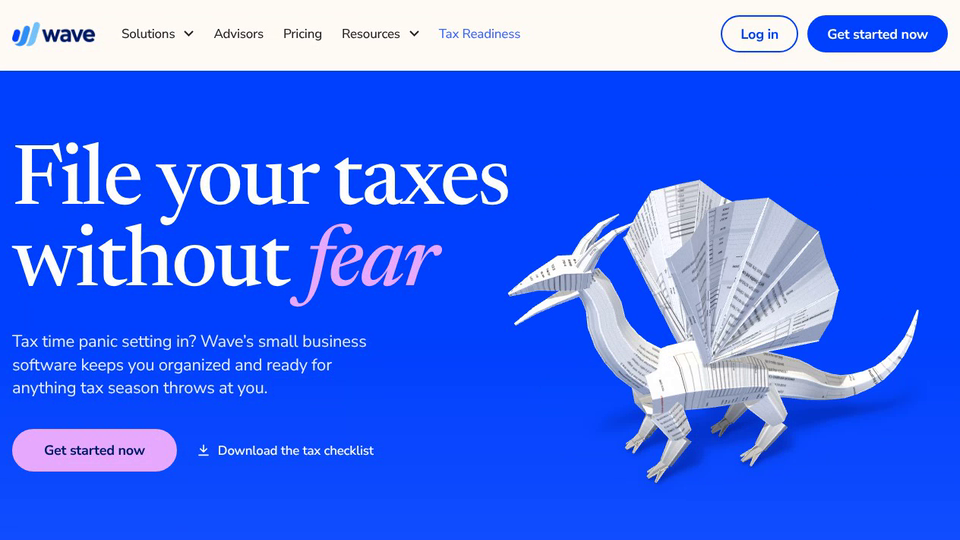
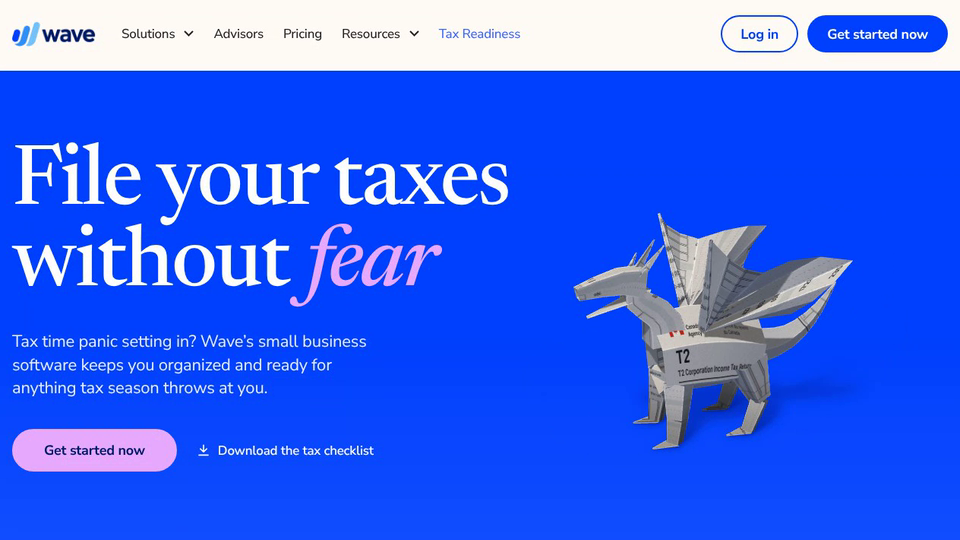
Wave Tax Landing Origami: creatures rebuilt after the Figma origami references (#930)
* Wave Tax Landing Origami: dark pink advisor image overlay

Claude-Session: https://claude.ai/code/session_016rpguaGnGwA1zdzYfzRZj8

* Wave Tax Landing Origami: clean up advisor image overlay mask

Rebuilt the pink overlay mask: smooth cutout edges, no glow rim, crisp
white ADVISORS outlines, untinted desk legs, even background tone.

Claude-Session: https://claude.ai/code/session_016rpguaGnGwA1zdzYfzRZj8

* Wave Tax Landing Origami: lighter pink advisor image overlay

Claude-Session: https://claude.ai/code/session_016rpguaGnGwA1zdzYfzRZj8

* Wave Tax Landing Origami: advisor overlay matches the card pink

Claude-Session: https://claude.ai/code/session_016rpguaGnGwA1zdzYfzRZj8

* Wave Tax Landing Origami: fix untinted halo around consultant's hair and ear

Claude-Session: https://claude.ai/code/session_016rpguaGnGwA1zdzYfzRZj8

* Wave Tax Landing Origami: origami fold, spider title toward camera, portrait moving CTA forms

- Creatures now fold like origami: limbs draw in, the body presses flat
  into a folded packet, and the sheet opens along straight creases
  (book/cupboard folds) instead of breaking into flying pieces.
- Spider: the T5018 title sits on the camera-facing side of the
  abdomen, and the spider is turned so its face angles toward the camera.
- Closing CTA forms use a portrait layout and slowly lift and settle.
- Re-recorded the home page clip at the new timings.

Claude-Session: https://claude.ai/code/session_016rpguaGnGwA1zdzYfzRZj8
[…]

Changed region(s): [[0.5312, 0.3259, 0.9375, 0.8889], [0.9375, 0.563, 0.9688, 0.6519]]

diff --git a/wave-tax-landing-origami/index.html b/wave-tax-landing-origami/index.html
@@ -516,7 +516,7 @@ html body nav.back:not(.sb-panel):not(:has(>div))>a,html body nav.back:not(.sb-p
     <p class="sub">Stop the tax time terror before it starts. Check out our guides to get prepared.</p>
     <div class="arts" id="arts">
       <a class="art" href="#" data-c="spider" data-f="T4A" data-cam="0.5,0.5,1.3" data-bg="#f2a8ff" data-sh="" data-name="T4A spider"><div class="ill"><canvas></canvas></div><div class="tx"><h3>2026 tax checklist: Get ready for tax season</h3><p>As we kick off the new year, it’s time to get your business ready for tax filing season. Follow these steps to get your books in shape.</p><span class="more2">Read more<svg viewBox="0 0 17 12" aria-hidden="true"><path d="M3 6h12M10 1l5 5-5 5" fill="none" stroke="currentColor" stroke-width="2" stroke-linecap="round" stroke-linejoin="round"/></svg></span></div></a>
-      <a class="art" href="#" data-c="hydra" data-f="T2125" data-cam="0.5,0.74,1.55" data-bleed="1" data-bg="#001b65" data-sh="" data-name="Deductions hydra"><div class="ill"><canvas></canvas></div><div class="tx"><h3>The ultimate guide to self-employed tax deductions</h3><p>Everything you need to know about tax deductions for the self-employed, common examples of what you can deduct, and how to maximize those deductions.</p><span class="more2">Read more<svg viewBox="0 0 17 12" aria-hidden="true"><path d="M3 6h12M10 1l5 5-5 5" fill="none" stroke="currentColor" stroke-width="2" stroke-linecap="round" stroke-linejoin="round"/></svg></span></div></a>
+      <a class="art" href="#" data-c="hydra" data-f="T2125" data-cam="0.5,0.5,1.3" data-bg="#001b65" data-sh="" data-name="Deductions hydra"><div class="ill"><canvas></canvas></div><div class="tx"><h3>The ultimate guide to self-employed tax deductions</h3><p>Everything you need to know about tax deductions for the self-employed, common examples of what you can deduct, and how to maximize those deductions.</p><span class="more2">Read more<svg viewBox="0 0 17 12" aria-hidden="true"><path d="M3 6h12M10 1l5 5-5 5" fill="none" stroke="currentColor" stroke-width="2" stroke-linecap="round" stroke-linejoin="round"/></svg></span></div></a>
       <a class="art" href="#" data-c="snake" data-f="GST34" data-cam="0.5,0.56,1.45" data-bg="#8a3ffc" data-sh="" data-name="GST/HST cobra"><div class="ill"><canvas></canvas></div><div class="tx"><h3>5 reasons why you should file your taxes ASAP</h3><p>Although filing your taxes might not be top of mind right now, we’ve looked into the top reasons why filing your taxes now can benefit you, your business, and others.</p><span class="more2">Read more<svg viewBox="0 0 17 12" aria-hidden="true"><path d="M3 6h12M10 1l5 5-5 5" fill="none" stroke="currentColor" stroke-width="2" stroke-linecap="round" stroke-linejoin="round"/></svg></span></div></a>
     </div>
   </div>
@@ -677,80 +677,84 @@ const triP = (apex, p0, p1, o) => quadP(apex, apex, p1, p0, o);
 const lin = (pts, sub = 6) => { const o = []; for (let i = 0; i < pts.length - 1; i++) for (let k = 0; k < sub; k++) o.push(V.lerp(pts[i], pts[i + 1], k / sub)); o.push(pts[pts.length - 1]); return o; };
 const MODELS = {};
 
-MODELS.dragon = () => {
+// after the Figma reference: a compact four-legged dragon, short neck, boxy open-jawed head with swept horns,
+// two big pleated triangular wings raised over the back and a tail rising to a point. heads: 1 (dragon) or 3 (hydra).
+function dragonModel(heads) {
   const P = [];
-  // body: a deep, sturdy barrel with a dorsal ridge
-  const body = spine([[-0.4, 0.6, 0], [-0.12, 0.64, 0], [0.2, 0.62, 0], [0.52, 0.56, 0]], [0, 1, 0], 120);
-  P.push(tubeP(body, { sides: 8, rings: 8, rb: (s) => 0.22 + 0.07 * Math.sin(Math.PI * Math.min(1, s * 1.1)), rn: (s) => 0.2 + 0.06 * Math.sin(Math.PI * s) - 0.03 * s, ridge: 0.14, d0: 0, d1: 0.1 }));
-  // neck rises in a soft S and ends in the head
-  const neck = spine([[-0.3, 0.68, 0], [-0.5, 0.84, 0], [-0.64, 1.06, 0], [-0.68, 1.28, 0], [-0.78, 1.44, 0]], [1, 0, 0], 160);
-  P.push(tubeP(neck, { sides: 6, rings: 8, rb: (s) => 0.17 - 0.07 * s, rn: (s) => 0.16 - 0.065 * s, ridge: 0.3, d0: 0.15, d1: 0.5 }));
-  // head: a pointed wedge with a lower jaw hanging open, two swept-back horns
-  const head = spine([[-0.76, 1.47, 0], [-0.95, 1.48, 0], [-1.12, 1.44, 0], [-1.28, 1.38, 0]], [0, 1, 0], 80);
-  const hr = [0.14, 0.14, 0.075, 0.014], hn = [0.115, 0.11, 0.055, 0.012], at = (a, s) => a[Math.min(3, Math.round(s * 3))];
-  P.push(tubeP(head, { sides: 5, rings: 3, rb: (s) => at(hr, s), rn: (s) => at(hn, s), rot: Math.PI / 2, ridge: 0.15, d0: 0.5, d1: 0.6 }));
-  const jaw = spine([[-0.84, 1.37, 0], [-1.0, 1.31, 0], [-1.16, 1.24, 0], [-1.26, 1.18, 0]], [0, 1, 0], 60);
-  P.push(tubeP(jaw, { sides: 4, rings: 3, rb: (s) => 0.085 * (1 - s) + 0.014, rn: (s) => 0.042 * (1 - s) + 0.01, d0: 0.55, d1: 0.65 }));
-  for (const sd of [1, -1]) {
-    const horn = spine([[-0.8, 1.52, 0.08 * sd], [-0.74, 1.62, 0.11 * sd], [-0.62, 1.74, 0.15 * sd], [-0.46, 1.82, 0.18 * sd]], [0, 0, 1], 60);
-    P.push(tubeP(horn, { sides: 4, rings: 3, rb: (s) => 0.062 * (1 - s) + 0.004, rn: (s) => 0.05 * (1 - s) + 0.004, d0: 0.6, d1: 0.7 }));
-  }
-  // wings: pleated membrane panels fanning from the shoulder, held up and swept back along the body
-  for (const sd of [1, -1]) {
-    const S = [0.02, 0.84, 0.22 * sd];
-    const T = [[-0.34, 1.62, 0.44], [-0.1, 1.92, 0.52], [0.3, 1.98, 0.56], [0.7, 1.74, 0.52], [0.95, 1.3, 0.42], [0.88, 0.9, 0.3]].map(([x, y, z]) => [x, y, z * sd]);
-    P.push(frustum(S, T[0], 0.055, 0.022, { sides: 4, cells: 2, d0: 0.3, d1: 0.45 }));
-    T.forEach((t, i) => { if (i) P.push(frustum(S, t, 0.032, 0.006, { sides: 3, cells: 2, d0: 0.4, d1: 0.55 })); });
-    for (let i = 0; i < T.length - 1; i++) P.push(triP(S, T[i], T[i + 1], { nu: 4, nv: 3, fold: (i % 2 ? -1 : 1) * 0.05 * sd, d0: 0.4, d1: 0.6 }));
-  }
-  // legs: stout thigh, shin and a foot with three short toes
-  const leg = (x, z, hind) => {
-    const root = [x, 0.5, z * 0.9], knee = [x + (hind ? 0.14 : 0.1), 0.3, z * 1.25], ank = [x + (hind ? -0.02 : -0.03), 0.11, z * 1.28], toe = [x - 0.17, 0.025, z * 1.28];
-    const R = hind ? 1.15 : 1;
-    P.push(frustum(root, knee, [0.15 * R, 0.13 * R], [0.09, 0.085], { sides: 5, d0: 0.3, d1: 0.35 }));
-    P.push(frustum(knee, ank, [0.09, 0.085], [0.05, 0.05], { sides: 5, d0: 0.35, d1: 0.4 }));
-    P.push(frustum(ank, toe, [0.06, 0.05], [0.02, 0.016], { sides: 4, d0: 0.4, d1: 0.45 }));
-    for (const o of [-1, 1]) P.push(frustum(ank, [toe[0] + 0.03, 0.02, toe[2] + o * 0.085], [0.035, 0.03], 0.01, { sides: 3, d0: 0.4, d1: 0.45 }));
+  const body = spine([[-0.36, 0.6, 0], [-0.1, 0.62, 0], [0.18, 0.6, 0], [0.42, 0.56, 0]], [0, 1, 0], 100);
+  P.push(tubeP(body, { sides: 6, rings: 6, rb: (s) => 0.24 + 0.05 * Math.sin(Math.PI * s), rn: (s) => 0.28 + 0.04 * Math.sin(Math.PI * s) - 0.05 * s, ridge: 0.2, d0: 0, d1: 0.1 }));
+  // a neck and boxy head; the head is a 4-sided wedge, the lower jaw hangs open below it, two horns sweep back
+  const headOn = (base, top, fwd, z0, d) => {
+    const neck = spine([base, V.lerp(base, top, 0.45).map((v, k) => v + (k === 0 ? 0.06 : 0)), V.lerp(base, top, 0.8).map((v, k) => v + (k === 0 ? -0.04 : 0)), top], [1, 0, 0], 80);
+    P.push(tubeP(neck, { sides: 4, rings: 6, rb: (s) => mix(0.17, 0.12, s), rn: (s) => mix(0.16, 0.11, s), rot: Math.PI / 4, ridge: 0.25, d0: d, d1: d + 0.15 }));
+    const f = V.norm(fwd), up = [0, 1, 0], at = (a, h, w = 0) => V.add(top, V.add(V.mul(f, a), [0, h, w]));
+    const head = spine([at(-0.06, 0.03), at(0.12, 0.04), at(0.28, 0.0), at(0.4, -0.03)], [0, 1, 0], 40);
+    P.push(tubeP(head, { sides: 4, rings: 3, rb: (s) => mix(0.15, 0.065, s), rn: (s) => mix(0.13, 0.055, s), rot: Math.PI / 4, ridge: 0.2, d0: d + 0.15, d1: d + 0.25 }));
+    P.push(frustum(at(0.04, -0.09), at(0.34, -0.2), [0.1, 0.035], [0.025, 0.012], { sides: 4, d0: d + 0.2, d1: d + 0.28 }));
+    for (const o of [1, -1]) P.push(frustum(at(-0.02, 0.07, 0.05 * o), at(-0.2, 0.3, 0.1 * o), [0.05, 0.04], 0.006, { sides: 3, d0: d + 0.25, d1: d + 0.3 }), frustum(at(0.02, 0.06, 0.07 * o), at(-0.08, 0.2, 0.15 * o), [0.035, 0.03], 0.005, { sides: 3, d0: d + 0.25, d1: d + 0.3 }));
   };
-  leg(-0.3, 0.2, false); leg(-0.3, -0.2, false); leg(0.44, 0.22, true); leg(0.44, -0.22, true);
-  // tail: tapering, trailing along the ground and flicking up to a point
-  const tail = spine([[0.46, 0.58, 0], [0.8, 0.5, 0.02], [1.1, 0.36, -0.1], [1.4, 0.3, -0.12], [1.68, 0.42, -0.02], [1.86, 0.68, 0.06], [1.94, 0.96, 0.07]], [0, 1, 0], 200);
-  P.push(tubeP(tail, { sides: 6, rings: 16, rb: (s) => 0.19 * Math.pow(1 - s, 0.9) + 0.008, rn: (s) => 0.16 * Math.pow(1 - s, 0.9) + 0.007, ridge: 0.3, d0: 0.2, d1: 1 }));
+  if (heads === 3) {
+    headOn([-0.3, 0.76, 0.04], [-0.52, 1.72, 0.12], [-1, 0.12, 0.3], 0, 0.1);
+    headOn([-0.32, 0.7, 0.16], [-1.06, 1.28, 0.36], [-1, 0, 0.3], 0, 0.12);
+    headOn([-0.18, 0.76, -0.12], [0.16, 1.46, -0.2], [-0.6, 0.05, 0.5], 0, 0.12);
+  } else headOn([-0.3, 0.74, 0], [-0.5, 1.16, 0], [-1, 0.05, 0], 0, 0.1);
+  // wings: a strong leading spar, then big pleated triangular panels fanning back from the shoulder
+  for (const sd of [1, -1]) {
+    const S = [-0.04, 0.86, 0.18 * sd], W = heads === 3 ? 0.62 : 1;
+    const T = [[-0.12, 1.55, 0.5], [0.22, 1.32, 0.56], [0.86, 1.36, 0.64], [0.52, 0.96, 0.42]].map(([x, y, z]) => V.add(S, V.mul(V.sub([x, y, z * sd], S), W)));
+    P.push(frustum(S, T[0], 0.05, 0.012, { sides: 4, d0: 0.3, d1: 0.45 }));
+    for (let i = 0; i < T.length - 1; i++) P.push(triP(S, T[i], T[i + 1], { nu: 3, nv: 2, fold: (i % 2 ? -1 : 1) * 0.1 * sd, d0: 0.4, d1: 0.6 }));
+  }
+  // legs: straight front legs, deep hind haunches, small pointed feet
+  for (const sd of [1, -1]) {
+    const f0 = [-0.24, 0.46, 0.16 * sd], f1 = [-0.27, 0.2, 0.2 * sd], f2 = [-0.3, 0.02, 0.21 * sd];
+    P.push(frustum(f0, f1, [0.12, 0.11], [0.085, 0.08], { sides: 4, d0: 0.3, d1: 0.35 }), frustum(f1, f2, [0.085, 0.08], [0.065, 0.06], { sides: 4, d0: 0.35, d1: 0.4 }), frustum(f2, [-0.48, 0.01, 0.23 * sd], [0.07, 0.035], 0.008, { sides: 3, d0: 0.4, d1: 0.45 }));
+    const h0 = [0.28, 0.56, 0.18 * sd], h1 = [0.38, 0.26, 0.23 * sd], h2 = [0.28, 0.02, 0.23 * sd];
+    P.push(frustum(h0, h1, [0.2, 0.17], [0.09, 0.085], { sides: 4, d0: 0.3, d1: 0.35 }), frustum(h1, h2, [0.085, 0.08], [0.065, 0.06], { sides: 4, d0: 0.35, d1: 0.4 }), frustum(h2, [0.1, 0.01, 0.24 * sd], [0.07, 0.035], 0.008, { sides: 3, d0: 0.4, d1: 0.45 }));
+  }
+  // tail: back and up to a flat point (the hydra's curls up higher)
+  const tp = heads === 3 ? [[0.4, 0.56, 0], [0.74, 0.5, 0], [1.0, 0.62, 0], [1.12, 0.9, 0], [1.06, 1.12, 0], [0.94, 1.2, 0]] : [[0.4, 0.56, 0], [0.7, 0.6, 0], [0.94, 0.76, 0], [1.14, 1.02, 0]];
+  P.push(tubeP(spine(tp, [0, 0, 1], 120), { sides: 4, rings: 8, rb: (s) => 0.13 * Math.pow(1 - s, 0.9) + 0.006, rn: (s) => 0.06 * Math.pow(1 - s, 0.9) + 0.004, rot: 0, ridge: 0.3, d0: 0.2, d1: 1 }));
   return P;
-};
+}
+MODELS.dragon = () => dragonModel(1);
 
 MODELS.scorpion = () => {
+  // after the Figma reference: broad plated body, thick five-segment tail hooking forward over the back, heavy flat pincers, short sturdy legs
   const P = [];
-  const body = spine([[-0.78, 0.2, 0], [-0.5, 0.22, 0], [-0.1, 0.24, 0], [0.28, 0.25, 0], [0.55, 0.28, 0]], [0, 1, 0], 120);
-  P.push(tubeP(body, { sides: 6, rings: 14, rb: (s) => (s < 0.3 ? mix(0.12, 0.27, s / 0.3) : mix(0.27, 0.13, (s - 0.3) / 0.7)), rn: (s) => (s < 0.3 ? mix(0.09, 0.15, s / 0.3) : mix(0.15, 0.1, (s - 0.3) / 0.7)), pleat: 0.07, rot: Math.PI / 2, ridge: 0.06, d0: 0, d1: 0.15 }));
-  const tail = spine([[0.45, 0.28, 0], [0.74, 0.42, 0], [0.94, 0.78, 0], [0.92, 1.14, 0], [0.7, 1.4, 0], [0.36, 1.44, 0], [0.1, 1.26, 0], [-0.02, 1.08, 0]], [0, 0, 1], 260);
-  P.push(tubeP(tail, { sides: 6, rings: 22, rb: (s) => (s < 0.84 ? 0.115 - 0.05 * s : s < 0.94 ? 0.1 : mix(0.1, 0.006, (s - 0.94) / 0.06)), rn: (s) => (s < 0.84 ? 0.115 - 0.05 * s : s < 0.94 ? 0.1 : mix(0.1, 0.006, (s - 0.94) / 0.06)), pleat: 0.1, d0: 0.15, d1: 1 }));
+  const body = spine([[-0.62, 0.27, 0], [-0.3, 0.3, 0], [0.05, 0.31, 0], [0.38, 0.32, 0], [0.56, 0.36, 0]], [0, 1, 0], 120);
+  const bw = (s) => (s < 0.28 ? mix(0.2, 0.36, Math.sin(s / 0.28 * Math.PI / 2)) : mix(0.36, 0.17, Math.pow((s - 0.28) / 0.72, 1.3)));
+  P.push(tubeP(body, { sides: 8, rings: 9, rb: bw, rn: (s) => bw(s) * 0.58, pleat: 0.06, rot: Math.PI / 2, ridge: 0.22, d0: 0, d1: 0.15 }));
+  const tail = spine([[0.5, 0.36, 0], [0.76, 0.46, 0], [0.94, 0.66, 0], [0.95, 0.9, 0], [0.82, 1.06, 0], [0.6, 1.1, 0], [0.47, 1.0, 0]], [0, 0, 1], 220);
+  P.push(tubeP(tail, { sides: 6, rings: 10, rb: (s) => mix(0.15, 0.1, s), rn: (s) => mix(0.13, 0.095, s), pleat: 0.16, ridge: 0.18, d0: 0.15, d1: 0.9 }));
+  P.push(frustum([0.47, 1.0, 0], [0.4, 0.8, 0], [0.09, 0.08], [0.012, 0.01], { sides: 4, up: [0, 0, 1], d0: 0.9, d1: 1 }));
   for (const sd of [1, -1]) {
-    const a = [-0.52, 0.2, 0.16 * sd], b = [-0.86, 0.2, 0.44 * sd], c = [-1.1, 0.19, 0.36 * sd];
-    P.push(frustum(a, b, [0.07, 0.06], [0.055, 0.05], { sides: 5, d0: 0.3, d1: 0.4 }), frustum(b, c, [0.06, 0.05], [0.09, 0.05], { sides: 5, d0: 0.4, d1: 0.45 }));
-    P.push(frustum(c, [-1.55, 0.17, 0.18 * sd], [0.1, 0.05], [0.01, 0.01], { sides: 4, d0: 0.45, d1: 0.55 }), frustum(c, [-1.5, 0.17, 0.52 * sd], [0.08, 0.04], [0.01, 0.01], { sides: 4, d0: 0.45, d1: 0.55 }));
+    const a = [-0.5, 0.28, 0.16 * sd], b = [-0.74, 0.32, 0.4 * sd], c = [-0.98, 0.26, 0.5 * sd], h = [-1.2, 0.22, 0.55 * sd];
+    P.push(frustum(a, b, [0.08, 0.07], [0.07, 0.065], { sides: 4, d0: 0.25, d1: 0.35 }), frustum(b, c, [0.075, 0.065], [0.1, 0.07], { sides: 4, d0: 0.35, d1: 0.42 }));
+    P.push(frustum(c, h, [0.19, 0.08], [0.17, 0.07], { sides: 4, rot: Math.PI / 4, d0: 0.42, d1: 0.48 }));
+    P.push(frustum(h, [-1.56, 0.17, 0.46 * sd], [0.08, 0.05], [0.008, 0.008], { sides: 4, rot: Math.PI / 4, d0: 0.48, d1: 0.56 }), frustum([h[0] + 0.03, h[1], h[2] + 0.07 * sd], [-1.48, 0.16, 0.68 * sd], [0.06, 0.04], [0.008, 0.008], { sides: 4, rot: Math.PI / 4, d0: 0.48, d1: 0.56 }));
     for (let n = 0; n < 4; n++) {
-      const x = -0.4 + n * 0.2, root = [x, 0.2, 0.2 * sd], knee = [x - 0.06 + (n - 1.5) * 0.04, 0.44, 0.52 * sd], foot = [x - 0.14 + (n - 1.5) * 0.16, 0.01, 0.84 * sd];
-      P.push(frustum(root, knee, 0.04, 0.03, { sides: 4, d0: 0.25, d1: 0.3 }), frustum(knee, foot, 0.03, 0.01, { sides: 4, d0: 0.3, d1: 0.4 }));
+      const x = -0.3 + n * 0.17, root = [x, 0.27, 0.22 * sd], knee = [x - 0.02 + (n - 1.5) * 0.05, 0.42, 0.46 * sd], foot = [x - 0.08 + (n - 1.5) * 0.13, 0.01, 0.66 * sd];
+      P.push(frustum(root, knee, [0.075, 0.065], [0.06, 0.055], { sides: 4, d0: 0.25, d1: 0.3 }), frustum(knee, foot, [0.06, 0.055], 0.012, { sides: 4, d0: 0.3, d1: 0.4 }));
     }
   }
   return P;
 };
 
-const SPIDER_TITLE_DIR = [-0.1, -0.06, 1];
+const SPIDER_TITLE_DIR = [-0.35, 0.72, 0.6];
 MODELS.spider = () => {
+  // after the Figma reference: big faceted abdomen with the form title across its top, short thick legs bent high at the knee
   const P = [];
-  // abdomen: the form's title (top left of the sheet) runs along the side that faces the hero camera
-  P.push(domeT([0.34, 0.62, 0], [0.46, 0.38, 0.36], { lats: 6, longs: 10, sc: 0.25, tc: 0.13, C: SPIDER_TITLE_DIR, d0: 0, d1: 0.1 }));
-  P.push(domeP([-0.12, 0.6, 0], [0.3, 0.22, 0.27], { lats: 5, longs: 8, d0: 0, d1: 0.1 }));
-  P.push(domeP([-0.42, 0.56, 0], [0.13, 0.11, 0.15], { lats: 4, longs: 6, d0: 0.1, d1: 0.15 }));
-  for (const sd of [1, -1]) P.push(frustum([-0.5, 0.5, 0.05 * sd], [-0.56, 0.3, 0.045 * sd], 0.035, 0.008, { sides: 3, d0: 0.15, d1: 0.2 }));
-  const ang = [62, 26, -10, -46];
+  P.push(domeT([0.3, 0.58, 0], [0.5, 0.43, 0.45], { lats: 7, longs: 12, sc: 0.25, tc: 0.13, C: SPIDER_TITLE_DIR, d0: 0, d1: 0.1 }));
+  P.push(domeP([-0.18, 0.5, 0], [0.28, 0.21, 0.27], { lats: 5, longs: 9, d0: 0, d1: 0.1 }));
+  P.push(domeP([-0.44, 0.45, 0], [0.13, 0.11, 0.15], { lats: 4, longs: 7, d0: 0.1, d1: 0.15 }));
+  for (const sd of [1, -1]) P.push(frustum([-0.52, 0.4, 0.05 * sd], [-0.6, 0.24, 0.045 * sd], 0.04, 0.008, { sides: 3, d0: 0.15, d1: 0.2 }));
+  const ang = [58, 22, -14, -50];
   for (const sd of [1, -1]) ang.forEach((a, n) => {
-    const A = a * D2R, dir = [-Math.sin(A), 0, Math.cos(A) * sd], root = [-0.28 + 0.14 * n, 0.58, 0.2 * sd];
+    const A = a * D2R, dir = [-Math.sin(A), 0, Math.cos(A) * sd], root = [-0.3 + 0.12 * n, 0.48, 0.2 * sd];
     const at = (d, h) => V.add(root, [dir[0] * d, h, dir[2] * d]);
-    const p0 = at(0, 0), p1 = at(0.32, 0.5), p2 = at(0.7, 0.22), p3 = at(0.96 + n * 0.02, -0.58);
-    P.push(frustum(p0, p1, [0.085, 0.07], [0.055, 0.05], { sides: 4, up: [0, 1, 0], d0: 0.2, d1: 0.3 }), frustum(p1, p2, [0.055, 0.05], [0.04, 0.04], { sides: 4, d0: 0.3, d1: 0.6 }), frustum(p2, p3, [0.04, 0.04], [0.01, 0.01], { sides: 4, d0: 0.6, d1: 0.9 }));
+    const p0 = at(0, 0), p1 = at(0.26, 0.3), p2 = at(0.56, 0.16), p3 = at(0.78 + n * 0.02, -0.47);
+    P.push(frustum(p0, p1, [0.08, 0.07], [0.068, 0.06], { sides: 4, up: [0, 1, 0], d0: 0.2, d1: 0.3 }), frustum(p1, p2, [0.068, 0.06], [0.055, 0.05], { sides: 4, d0: 0.3, d1: 0.6 }), frustum(p2, p3, [0.055, 0.05], [0.012, 0.012], { sides: 4, d0: 0.6, d1: 0.9 }));
   });
   return P;
 };
@@ -769,11 +773,7 @@ MODELS.snake = () => {
   for (let k = 0; k <= 22; k++) { const q = k / 22, th = 0.9 + q * Math.PI * 2 * 1.55, r = 0.24 + q * 0.7; pts.push([c[0] + Math.cos(th) * r, 0.11 + (1 - q) * 0.18, c[2] + Math.sin(th) * r * 0.8]); }
   return cobraPatches(spine(pts, [1, 0, 0], 400), { tailFrom: 2.3 });
 };
-MODELS.hydra = () => {
-  // three cobra heads facing the viewer, their necks running straight down off the bottom of the frame
-  const neck = (x, y, z, lean) => spine([[x - 0.06, y - 0.02, z + 0.4], [x - 0.02, y + 0.03, z + 0.24], [x + 0.02, y - 0.07, z + 0.1], [x + 0.06 + lean, y - 0.45, z], [x + 0.02 + lean, y - 0.95, z], [x + 0.06 + lean, -0.9, z]], [1, 0, 0], 160);
-  return [neck(-0.95, 1.05, 0.15, 0.05), neck(-0.1, 1.5, -0.1, -0.04), neck(0.75, 1.12, -0.3, 0.06)].flatMap((sp, i) => cobraPatches(sp, { d0: i * 0.1, d1: 1 }));
-};
+MODELS.hydra = () => dragonModel(3);
 
 function lotusModel(rings) {
   return () => {
@@ -854,7 +854,7 @@ function buildMesh(patches) {
   // lay every patch out on the unit sheet in proportion to its paper area, so the print has the same scale everywhere
   if (list.length === 1) list[0].rect = [0, 0, 1, 1]; else {
     const items = list.map((p, id) => ({ id, w: Math.max(p.area, 0.0008) })).sort((a, b) => b.w - a.w), R = {};
-    treemap(items, 0, 0, 1, FORM_ASP, R); list.forEach((p, id) => { const [x, y, w, h] = R[id]; p.rect = [x, y / FORM_ASP, w, h / FORM_ASP]; });
+    const PS = patches.printScale || 0.5; treemap(items, 0, 0, PS, PS * FORM_ASP, R); list.forEach((p, id) => { const [x, y, w, h] = R[id]; p.rect = [x, y / FORM_ASP, w, h / FORM_ASP]; });
   }
   const V0 = [], FLAT = [], UV = [], DL = [], WELD = [], TRI = [], SGN = [], wmap = new Map();
   list.forEach((p) => {
@@ -984,7 +984,7 @@ void main(){ vPos=aPos; vN=aN; vUV=aUV; vBary=aBary; vCrease=aCrease; gl_Positio
 precision highp float; precision highp sampler2DShadow;
 in vec3 vPos,vN,vBary,vCrease; in vec2 vUV; out vec4 oC;
 uniform sampler2D uT0,uT1,uT2; uniform sampler2DShadow uSM;
-uniform float uMix,uK,uCalm,uBright,uAO,uLR,uSM_px,uSheen,uPlanar; uniform vec2 uSheet; uniform vec3 uTint,uL,uE,uBounce,uSky,uLC,uLX,uLY;
+uniform float uMix,uK,uCalm,uBright,uAO,uLR,uSM_px,uSheen,uPlanar,uAmb,uKey; uniform vec2 uSheet; uniform vec3 uTint,uL,uE,uBounce,uSky,uLC,uLX,uLY;
 float h21(vec2 p){ p=fract(p*vec2(123.34,456.21)); p+=dot(p,p+45.32); return fract(p.x*p.y); }
 float vn(vec2 p){ vec2 i=floor(p),f=fract(p); f=f*f*(3.-2.*f); return mix(mix(h21(i),h21(i+vec2(1,0)),f.x),mix(h21(i+vec2(0,1)),h21(i+vec2(1,1)),f.x),f.y); }
 void main(){
@@ -1004,7 +1004,7 @@ void main(){
   float cr=0.; vec3 w=fwidth(vBary), e=smoothstep(vec3(0.),w*1.6,vBary);
   for(int i=0;i<3;i++){ float c=vCrease[i]; float line=(1.-e[i]); cr+= c>0. ? c*line*.30 : c*line*.16; }
   float fade=1.-smoothstep(.9,1.,uK);
-  vec3 col=alb*(amb*.80*ao + vec3(1.,.975,.94)*wrap*sh*.34);
+  vec3 col=alb*(amb*uAmb*ao + vec3(1.,.975,.94)*wrap*sh*uKey);
   col+=alb*vec3(1.,.93,.82)*.06*max(0.,-ndl)*(1.-sh*0.);                        // light leaking through thin paper
   vec3 H=normalize(uL+normalize(uE-vPos)); col+=vec3(1.,.98,.95)*pow(max(dot(N,H),0.),36.)*uSheen*sh;
   col*=1.-cr*fade;
@@ -1219,7 +1219,7 @@ Scene.prototype.draw = function (k, frame = 0) {
   }
   gl.useProgram(G.main); cam(G.main); { const u = G.main.u;
     gl.uniform3fv(u.uL, L); gl.uniform3fv(u.uLC, LC); gl.uniform3fv(u.uLX, lx); gl.uniform3fv(u.uLY, ly_); gl.uniform1f(u.uLR, LR); gl.uniform1f(u.uSM_px, 1 / G.SM);
-    gl.uniform3fv(u.uBounce, o.bounce); gl.uniform3fv(u.uSky, o.sky); gl.uniform1f(u.uK, k); gl.uniform1f(u.uCalm, calm); gl.uniform1f(u.uBright, o.bright || 0); gl.uniform1f(u.uAO, o.ao * (1 - sstep(0.2, 0.7, o.origami ? clamp(k / 0.62) : 0))); gl.uniform1f(u.uSheen, o.sheen); gl.uniform1f(u.uPlanar, useSheet ? 1 : kB < 0.5 ? 4 * kB * kB * kB : 1 - Math.pow(-2 * kB + 2, 3) / 2); gl.uniform2f(u.uSheet, SHEET_W, SHEET);
+    gl.uniform3fv(u.uBounce, o.bounce); gl.uniform3fv(u.uSky, o.sky); gl.uniform1f(u.uK, k); gl.uniform1f(u.uCalm, calm); gl.uniform1f(u.uBright, o.bright || 0); gl.uniform1f(u.uAO, o.ao * (1 - sstep(0.2, 0.7, o.origami ? clamp(k / 0.62) : 0))); gl.uniform1f(u.uSheen, o.sheen); gl.uniform1f(u.uAmb, o.amb == null ? 0.45 : o.amb); gl.uniform1f(u.uKey, o.key == null ? 0.4 : o.key); gl.uniform1f(u.uPlanar, useSheet ? 1 : kB < 0.5 ? 4 * kB * kB * kB : 1 - Math.pow(-2 * kB + 2, 3) / 2); gl.uniform2f(u.uSheet, SHEET_W, SHEET);
     gl.activeTexture(gl.TEXTURE3); gl.bindTexture(gl.TEXTURE_2D, G.smTex); gl.uniform1i(u.uSM, 3); gl.uniform1i(u.uT0, 0); gl.uniform1i(u.uT1, 1); gl.uniform1i(u.uT2, 2); }
   const texMix = o.texMix || 0;
   for (const ly of this.layers) {
